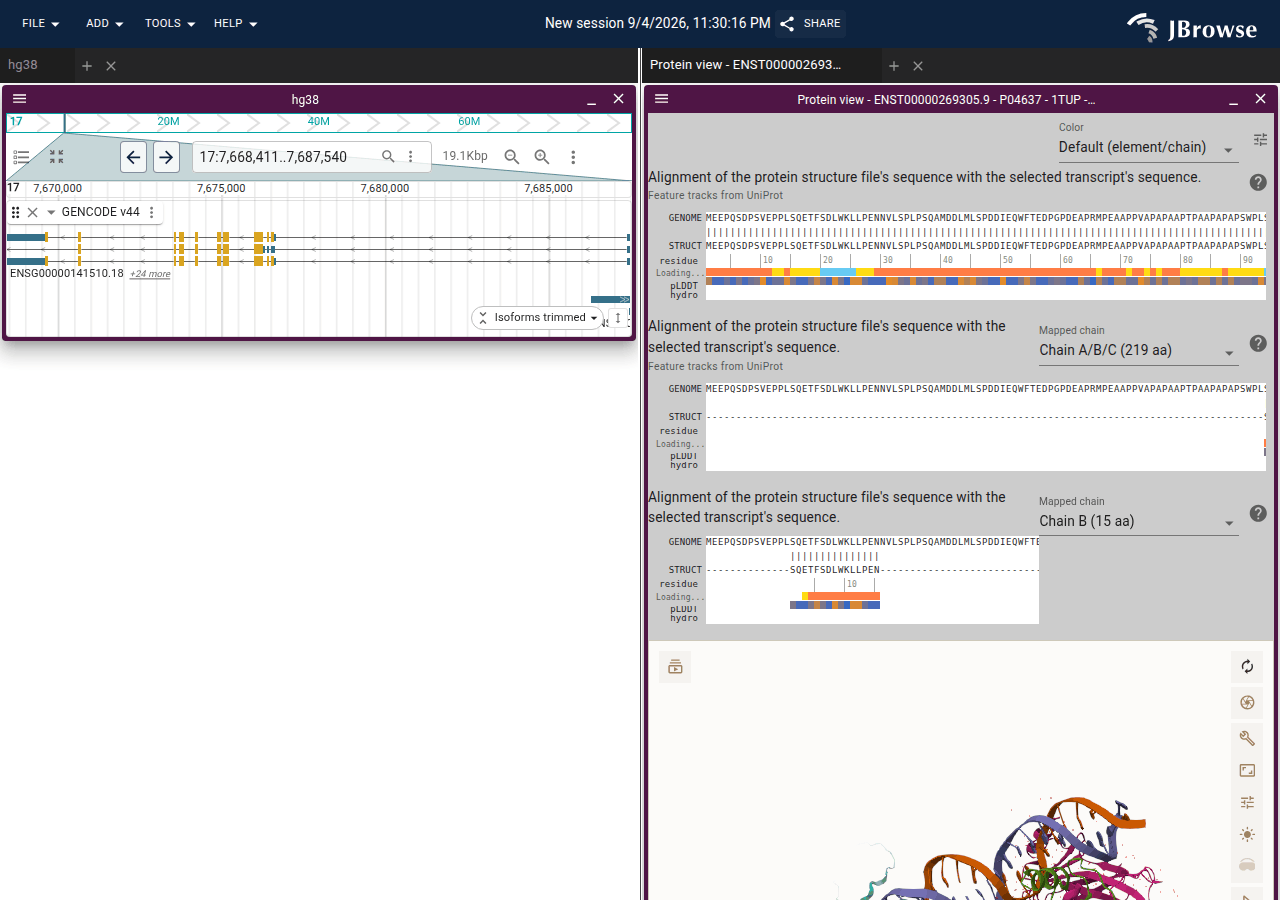
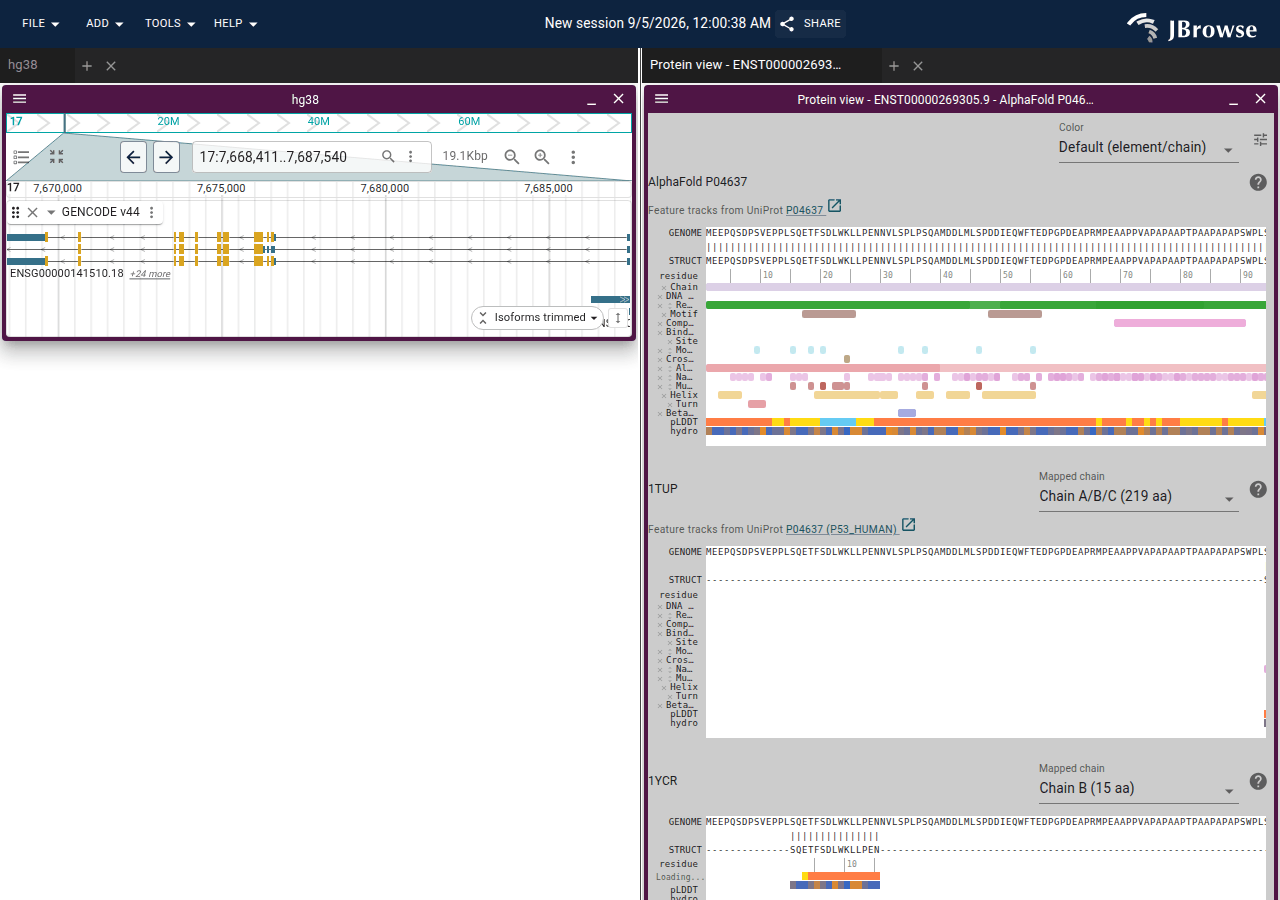
fix(ProteinView): put the chain picker in a header row so it stops narrowing the alignment
The picker and help button floated right above the alignment. A flex container
never overlaps a float, so on every panel with a picker (1TUP, 1YCR) the whole
alignment was narrowed by the picker's width and its rows cut ~200px short,
while the picker-less AlphaFold panel ran full width. The picker now shares a
flex header row with the panel's title. Nightly reference refreshed for the
panel titles and the full-width rows.

Claude-Session: https://claude.ai/code/session_01Sm8wesSAkVFsex5xtX1G8D

diff --git a/src/ProteinView/components/ProteinAlignment.tsx b/src/ProteinView/components/ProteinAlignment.tsx
@@ -205,22 +205,32 @@ const ProteinAlignment = observer(function ProteinAlignment({
 
   return (
     <div data-testid="protein-alignment-panel" data-structure={label}>
-      <div style={{ float: 'right', display: 'flex', alignItems: 'center' }}>
-        <ChainSelect model={model} />
-        <ProteinAlignmentHelpButton model={model} />
+      {/* A header row rather than a float: a floated picker narrowed the whole
+          alignment below it, since a flex container will not overlap a float,
+          so a panel with a chain picker lost 200px of sequence to it. */}
+      <div
+        style={{
+          display: 'flex',
+          alignItems: 'center',
+          justifyContent: 'space-between',
+        }}
+      >
+        {/* Names the structure this panel aligns, since several panels stack
+            over one canvas and nothing else tells 1TUP's from 1YCR's. What the
+            rows mean is in the help dialog. */}
+        <Typography variant="subtitle2">
+          {label}
+          {showHighlight ? (
+            <Typography variant="caption" color="textSecondary" sx={{ ml: 1 }}>
+              green is the aligned portion
+            </Typography>
+          ) : null}
+        </Typography>
+        <div style={{ display: 'flex', alignItems: 'center', flexShrink: 0 }}>
+          <ChainSelect model={model} />
+          <ProteinAlignmentHelpButton model={model} />
+        </div>
       </div>
-
-      {/* Names the structure this panel aligns, since several panels stack
-          over one canvas and nothing else tells 1TUP's from 1YCR's. What the
-          rows mean is in the help dialog. */}
-      <Typography variant="subtitle2">
-        {label}
-        {showHighlight ? (
-          <Typography variant="caption" color="textSecondary" sx={{ ml: 1 }}>
-            green is the aligned portion
-          </Typography>
-        ) : null}
-      </Typography>
       {showProteinTracks ? (
         <UniProtProvenance uniprotId={uniprotId} uniprotName={uniprotName} />
       ) : null}
